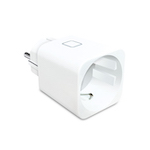
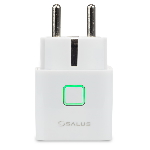
SPE600

Changed region(s): [[0.16, 0.0267, 0.8267, 0.96], [0.7733, 0.6667, 0.8, 0.6933]]

diff --git a/docs/devices/SPE600.md b/docs/devices/SPE600.md
@@ -17,7 +17,7 @@ description: "Integrate your Salus Controls SPE600 via Zigbee2mqtt with whatever
 
 ## Notes
 
-None
+After initialization, the LED will start flashing red continuously for pairing.  
 
 ## OTA updates
 This device supports OTA updates, for more information see [OTA updates](../information/ota_updates.md).
